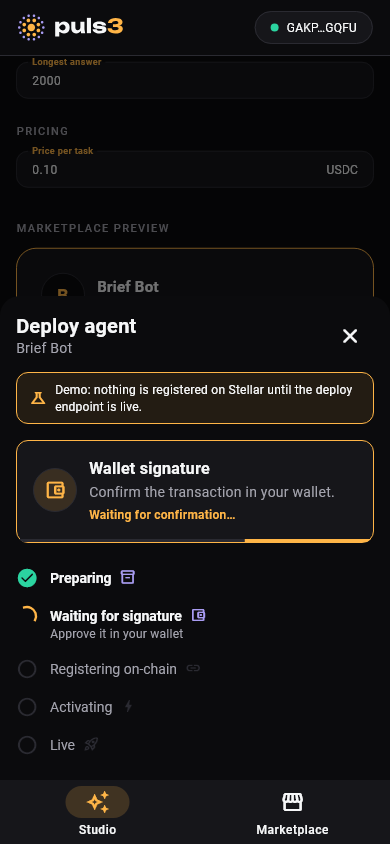
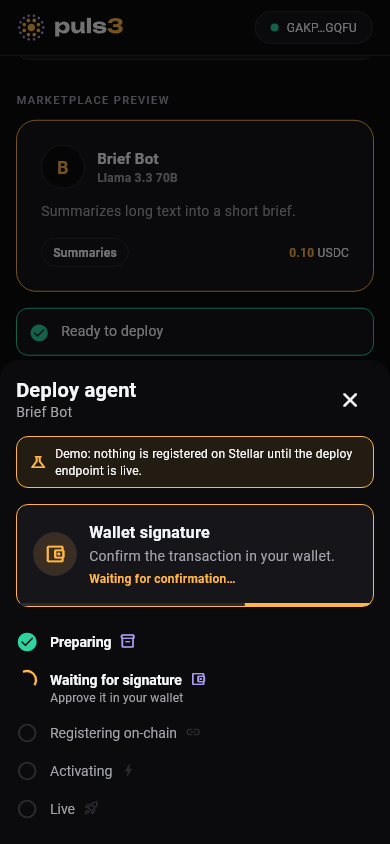
fix(flutter): open the Studio sheets above the phone navigation bar and resume a save after connecting (#37)

diff --git a/puls3_flutter/test/screens/studio_screen_test.dart b/puls3_flutter/test/screens/studio_screen_test.dart
@@ -184,6 +184,14 @@ void main() {
         find.byKey(const ValueKey('wallet-state-disconnected')),
         findsOneWidget,
       );
+
+      // Connecting, then closing the sheet, continues the same save.
+      await tester.tap(find.text('Connect Demo wallet'));
+      await advance(tester, const Duration(milliseconds: 700));
+      await tester.tapAt(const Offset(20, 20));
+      await advance(tester, const Duration(milliseconds: 800));
+      expect(find.text('Saved · revision 1 (demo)'), findsOneWidget);
+      expect(find.widgetWithText(TextField, 'Brief Bot'), findsOneWidget);
     });
 
     testWidgets('Save draft shows the revision, then unsaved changes', (
@@ -344,6 +352,14 @@ void main() {
       expect(find.byKey(const Key('playground-panel')), findsOneWidget);
       expect(find.byKey(const Key('playground-close')), findsOneWidget);
       expect(tester.takeException(), isNull);
+
+      // Above the bottom navigation bar: Run is reachable.
+      await tester.enterText(_field('playground-input'), 'A short task.');
+      await tester.pump();
+      await tester.ensureVisible(_field('playground-run'));
+      await tester.tap(_field('playground-run'));
+      await advance(tester, const Duration(milliseconds: 400));
+      expect(find.text('Test run: not paid, nothing on chain'), findsOneWidget);
 
       await tester.tap(_field('playground-close'));
       await advance(tester, const Duration(milliseconds: 600));

diff --git a/puls3_flutter/lib/src/screens/studio_screen.dart b/puls3_flutter/lib/src/screens/studio_screen.dart
@@ -221,10 +221,13 @@ class _StudioScreenState extends State<StudioScreen> {
     AgentManifestDraft manifest, {
     bool overwrite = false,
   }) async {
-    final owner = _owner;
+    var owner = _owner;
     if (owner == null) {
+      // F8: connect, then the save continues with the same form.
       await showWalletSheet(context);
-      return null;
+      if (!mounted) return null;
+      owner = _owner;
+      if (owner == null) return null;
     }
     setState(() {
       _saving = true;

diff --git a/puls3_flutter/lib/src/screens/wallet_sheet.dart b/puls3_flutter/lib/src/screens/wallet_sheet.dart
@@ -13,6 +13,9 @@ import '../ui/organisms/wallet_panel.dart';
 Future<void> showWalletSheet(BuildContext context) {
   return showModalBottomSheet<void>(
     context: context,
+    // Above the whole app, so the phone's bottom navigation bar does not
+    // cover the end of the sheet.
+    useRootNavigator: true,
     useSafeArea: true,
     isScrollControlled: true,
     builder: (_) => const WalletSheet(),

diff --git a/puls3_flutter/lib/src/screens/playground.dart b/puls3_flutter/lib/src/screens/playground.dart
@@ -133,6 +133,9 @@ Future<void> showPlaygroundSheet(
 }) {
   return showModalBottomSheet<void>(
     context: context,
+    // Above the whole app, so the phone's bottom navigation bar does not
+    // cover the end of the sheet.
+    useRootNavigator: true,
     isScrollControlled: true,
     useSafeArea: true,
     backgroundColor: Puls3Colors.background,

diff --git a/puls3_flutter/lib/src/screens/deploy_sheet.dart b/puls3_flutter/lib/src/screens/deploy_sheet.dart
@@ -20,6 +20,9 @@ Future<void> showDeploySheet(
 }) {
   return showModalBottomSheet<void>(
     context: context,
+    // Above the whole app, so the phone's bottom navigation bar does not
+    // cover the end of the sheet.
+    useRootNavigator: true,
     isScrollControlled: true,
     useSafeArea: true,
     isDismissible: false,
